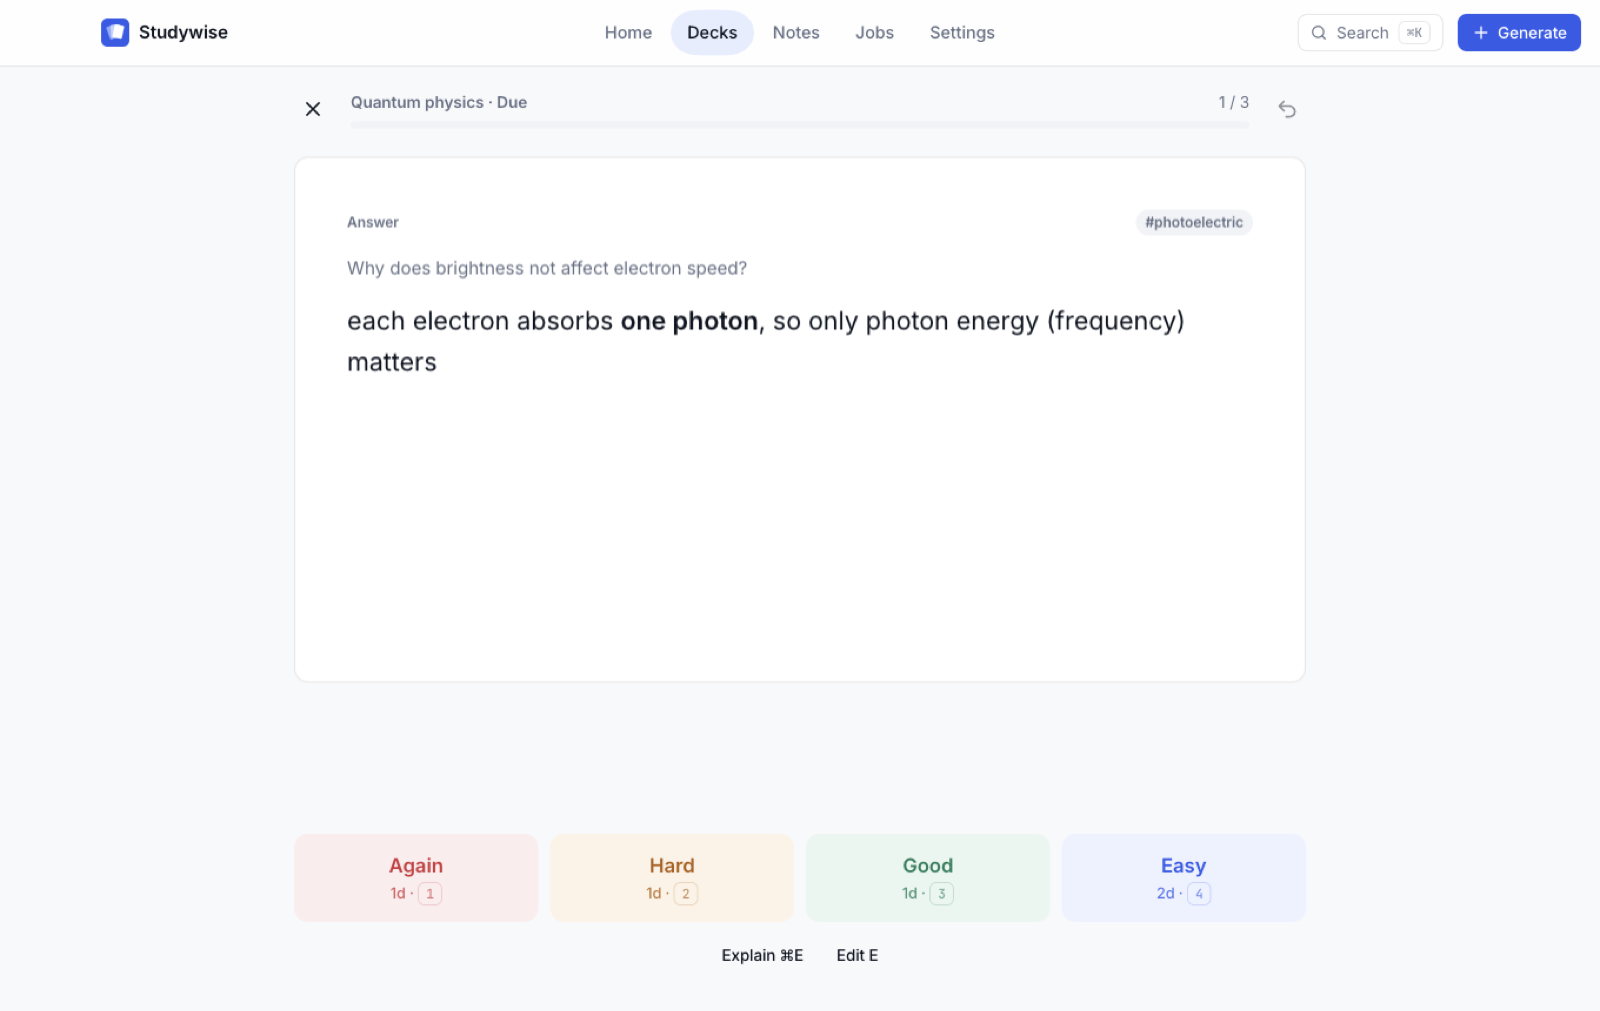
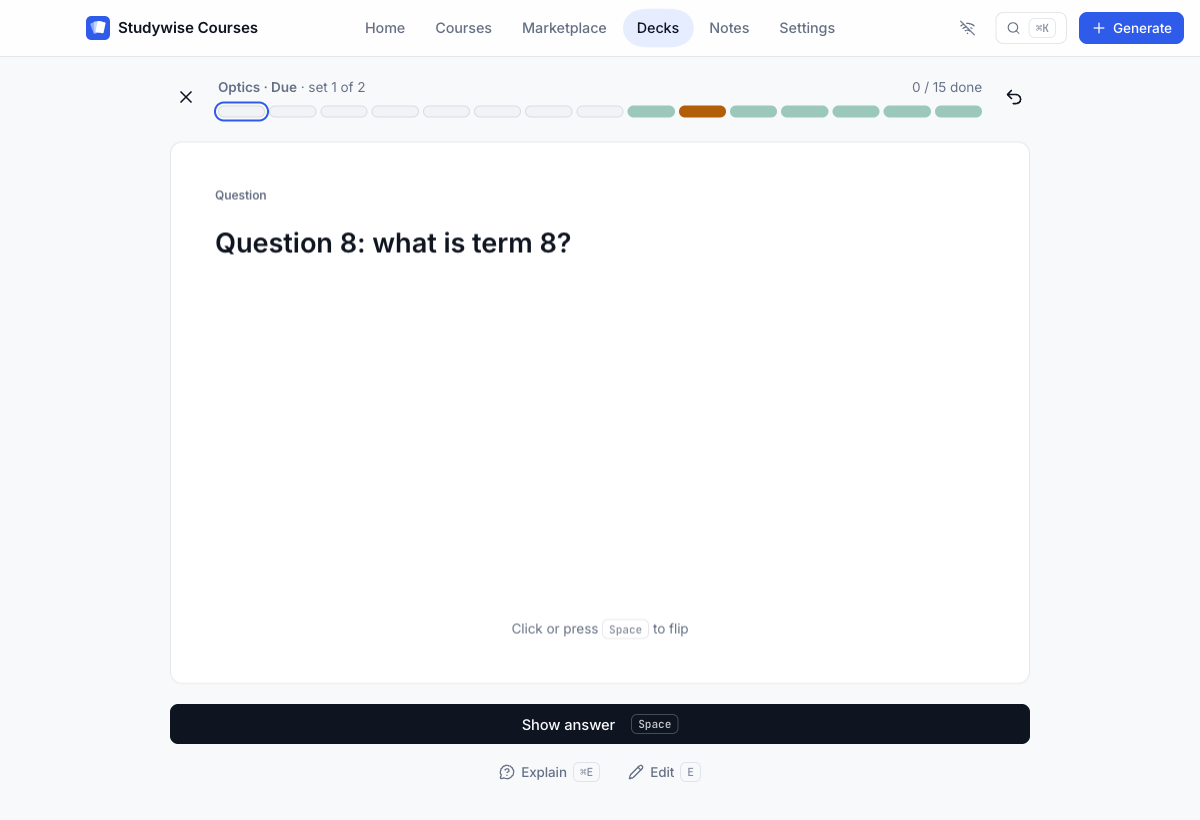
Studywise Courses download page (1.10.2)

diff --git a/index.html b/index.html
@@ -3,8 +3,8 @@
   <head>
     <meta charset="utf-8" />
     <meta name="viewport" content="width=device-width, initial-scale=1" />
-    <title>Studywise</title>
-    <meta name="description" content="A flashcard and notes app for Mac and Windows. Give it a lecture PDF and it makes notes and flashcards, then quizzes you." />
+    <title>Studywise Courses</title>
+    <meta name="description" content="A study app for Mac, Windows and Android. Give it your lecture slides and it turns each week into short lessons, practice questions and flashcards." />
     <link rel="icon" type="image/png" href="img/icon.png" />
     <link rel="preconnect" href="https://fonts.googleapis.com" />
     <link rel="preconnect" href="https://fonts.gstatic.com" crossorigin />
@@ -13,68 +13,86 @@
   </head>
   <body>
     <header class="top">
-      <a class="brand" href="#"><img src="img/icon.png" alt="" width="28" height="28" /> Studywise</a>
+      <a class="brand" href="#"><img src="img/icon.png" alt="" width="28" height="28" /> Studywise Courses</a>
       <nav>
         <a href="#features">Features</a>
         <a href="#setup">Setup</a>
-        <a href="https://github.com/SnakeLuck360GT/studywise">GitHub</a>
+        <a href="https://github.com/SnakeLuck360GT/studywise-courses">GitHub</a>
       </nav>
     </header>
 
     <main>
       <section class="hero">
-        <img class="hero-icon" src="img/icon.png" alt="Studywise icon" width="96" height="96" />
-        <h1>Turn your lecture PDFs into flashcards.</h1>
-        <p class="lead">Studywise makes notes and flashcards from your lecture slides, then quizzes you and marks your answers.</p>
+        <img class="hero-icon" src="img/icon.png" alt="Studywise Courses icon" width="96" height="96" />
+        <h1>Turn your lectures into a course.</h1>
+        <p class="lead">Give it your slides, transcripts and readings. Studywise splits each week into topics and teaches them in short lessons, with practice questions and flashcards.</p>
         <div class="buttons">
-          <a class="btn primary" href="https://github.com/SnakeLuck360GT/studywise/releases/latest/download/Studywise.dmg">Download for Mac</a>
-          <a class="btn" href="https://github.com/SnakeLuck360GT/studywise/releases/latest/download/Studywise-Setup.exe">Download for Windows</a>
+          <a class="btn primary" href="https://github.com/SnakeLuck360GT/studywise-courses/releases/latest/download/Studywise-Courses.dmg">Download for Mac</a>
+          <a class="btn" href="https://github.com/SnakeLuck360GT/studywise-courses/releases/latest/download/Studywise-Courses-Setup.exe">Download for Windows</a>
         </div>
-        <p class="small">Free. Needs a Claude account and <a href="#setup">Claude Code</a>.</p>
+        <p class="small">
+          Free. Also on <a href="https://github.com/SnakeLuck360GT/studywise-courses/releases/latest/download/Studywise-android.apk">Android</a>. Needs a Claude account and <a href="#setup">Claude Code</a>, or Ollama.
+        </p>
       </section>
 
       <figure class="shot main-shot">
-        <img src="img/home.png" alt="The Studywise home screen" />
+        <img src="img/home.png" alt="The Studywise Courses home screen" />
       </figure>
 
       <section id="features" class="features">
         <div class="feature">
           <div>
-            <h2>Notes from your slides</h2>
-            <p>Drop in a PDF and get clear notes in a casual, exam-focused style. It reads the tables and diagrams too, not just the text.</p>
+            <h2>A course for every module</h2>
+            <p>Add each week's slides, lecture transcripts and readings. Studywise plans the week into topics, and you can see at a glance what's written, what's done and what's next.</p>
           </div>
-          <img src="img/notes.png" alt="Notes generated from a lecture" />
+          <img src="img/course.png" alt="A course with its weeks" />
         </div>
         <div class="feature">
           <div>
-            <h2>Flashcards you can check</h2>
-            <p>Cards come out in the StudySmarter text format. You get to review them, fix any that look wrong, and save the rest to a deck.</p>
+            <h2>Learn a bit at a time</h2>
+            <p>Each topic is taught in short sections: a screen of notes, with the slide's figure if it helps, then a few quick questions before the next bit. Take the topic's test when you're ready.</p>
           </div>
-          <img src="img/preview.png" alt="Reviewing generated flashcards" />
+          <img src="img/topic.png" alt="Notes in a topic" />
         </div>
         <div class="feature">
           <div>
-            <h2>Learn mode</h2>
-            <p>Each card turns into a question: multiple choice, true or false, fill in the blank, write your own answer, and more. Written answers get a mark out of 10.</p>
+            <h2>Questions that make you think</h2>
+            <p>Multiple choice, true or false, fill the gap, put in order, sort into groups, match up, and explain in your own words, with your written answers marked and explained.</p>
           </div>
-          <img src="img/learn-feedback.png" alt="A Learn question with feedback" />
+          <img src="img/match-up.png" alt="A match-up question" />
         </div>
         <div class="feature">
           <div>
-            <h2>Spaced repetition</h2>
-            <p>Flip cards and rate them. Studywise works out when you should see each one again, and shows what's due each day.</p>
+            <h2>Flashcards, red, yellow, green</h2>
+            <p>Go through cards in sets of 15 and mark each one red, yellow or green. Two greens and it's learnt; after that it comes back after 1 day, then 3, then 7, further apart each time you remember it.</p>
           </div>
           <img src="img/flashcards.png" alt="Flashcard review" />
+        </div>
+        <div class="feature">
+          <div>
+            <h2>Your own notes</h2>
+            <p>Write notes in Markdown, sorted into folders, with maths, tables and diagrams. Turn any note into flashcards with one click.</p>
+          </div>
+          <img src="img/notes.png" alt="The notes editor" />
+        </div>
+        <div class="feature">
+          <div>
+            <h2>Share weeks with your course</h2>
+            <p>Publish the weeks you've made so others on the same module can add them for free, without generating anything. Before you plan a week, Studywise checks whether someone has already made it from the same slides.</p>
+          </div>
+          <img src="img/marketplace.png" alt="A course on the marketplace" />
         </div>
       </section>
 
       <section class="list">
         <h2>Also</h2>
         <ul>
-          <li>Imports and exports StudySmarter .txt and .xlsx files</li>
-          <li>Explain button on any card or note</li>
-          <li>Edit every AI prompt, and pick which Claude model each task uses</li>
-          <li>Lots of keyboard shortcuts. Press ? in the app to see them all</li>
+          <li>An Android app that syncs with your computer over Wi‑Fi and works offline</li>
+          <li>Make flashcards from a PDF, your notes or pasted text, or import Anki decks</li>
+          <li>End-of-week tests, quick reviews and an Explain button on anything</li>
+          <li>Offline mode: study everything you've made without AI</li>
+          <li>Works from the keyboard: arrow keys, Enter, and shortcuts for everything (press ? in the app)</li>
+          <li>Edit every AI prompt, and pick which model each task uses</li>
           <li>Everything is stored on your computer</li>
         </ul>
       </section>
@@ -86,8 +104,9 @@
             Install Claude Code and log in:
             <pre><code>npm install -g @anthropic-ai/claude-code
 claude</code></pre>
+            Or use Ollama: in Settings → AI provider pick Ollama and paste an API key from <a href="https://ollama.com/settings/keys">ollama.com</a>.
           </li>
-          <li>Download Studywise and open it.</li>
+          <li>Download Studywise Courses and open it. It tells you when there's a new version.</li>
         </ol>
         <p>The app isn't signed yet. On a Mac, right-click it and pick Open the first time. On Windows, click More info, then Run anyway.</p>
         <p class="small">Studywise uses your own Claude account through Claude Code, under <a href="https://www.anthropic.com/legal/consumer-terms">Anthropic's terms</a>. It isn't affiliated with Anthropic or StudySmarter.</p>
@@ -95,8 +114,9 @@ claude</code></pre>
     </main>
 
     <footer>
-      <a href="https://github.com/SnakeLuck360GT/studywise">Source on GitHub</a>
-      <a href="https://github.com/SnakeLuck360GT/studywise/releases">All releases</a>
+      <a href="https://github.com/SnakeLuck360GT/studywise-courses">Source on GitHub</a>
+      <a href="https://github.com/SnakeLuck360GT/studywise-courses/releases">All releases</a>
+      <a href="https://github.com/SnakeLuck360GT/studywise-courses/pulls">Add a feature</a>
     </footer>
   </body>
 </html>
